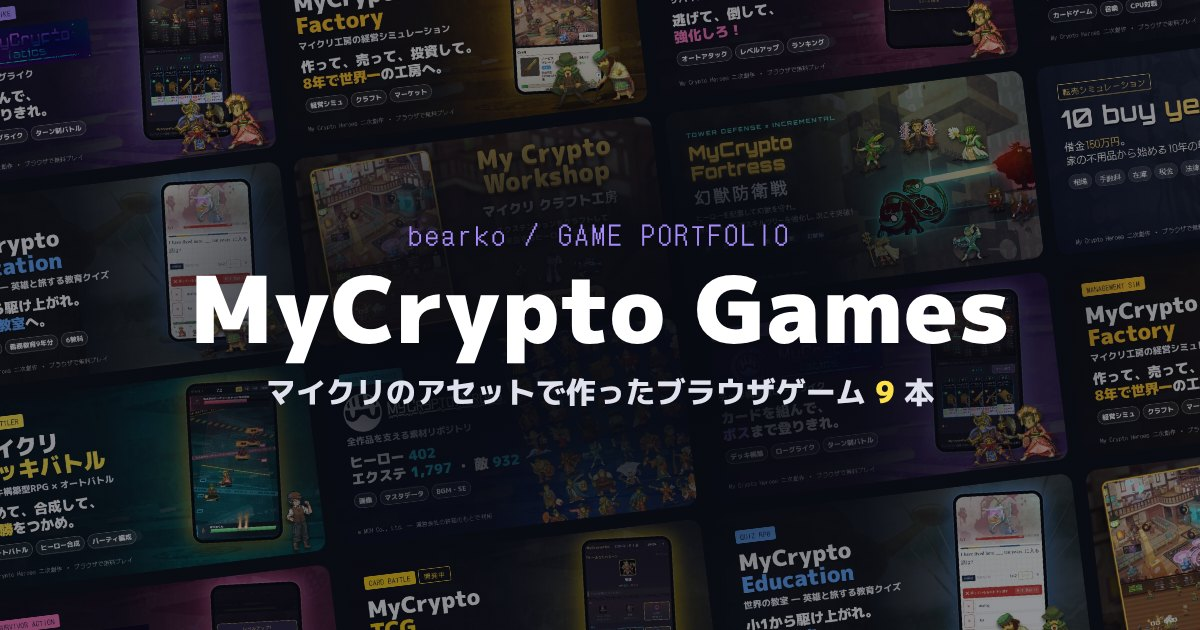
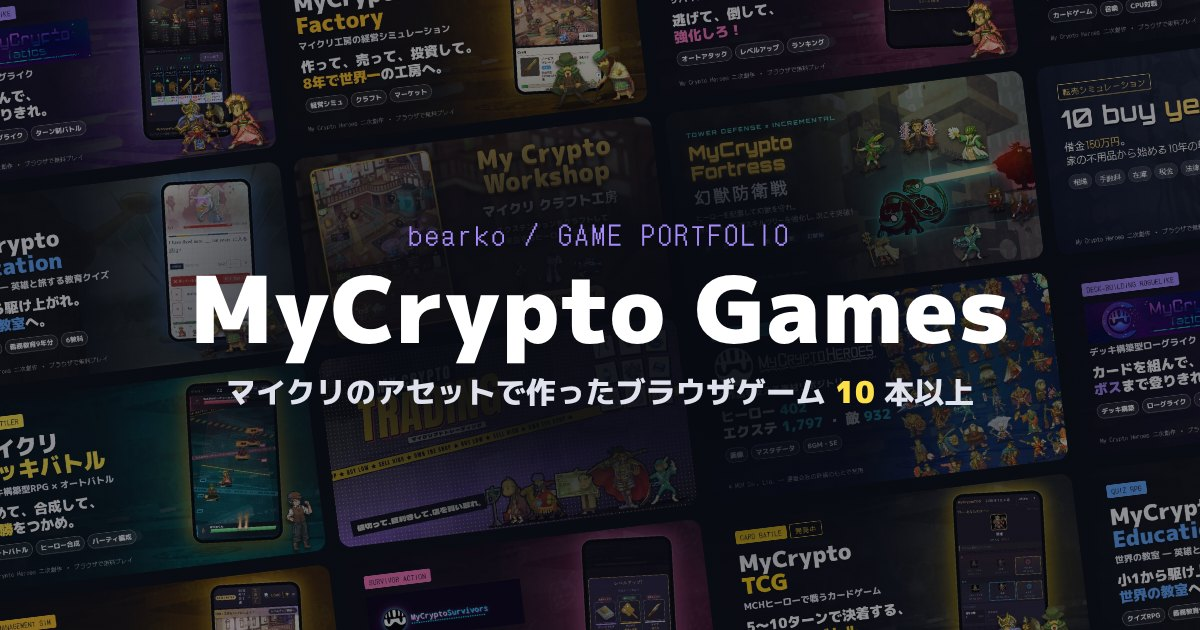
fix(portal): OGP 画像を作り直し、作品数を「10 本以上」に (#91)
- og-image.jpg: Trading のサムネイルを含めて作り直した（node tools/make-thumbs.mjs og）
- tools/thumbs/og.html・index.html の説明文：作品が増えても書き直さなくてよいよう「10 本以上」に

Claude-Session: https://claude.ai/code/session_019yDScE4q2ECipUMzp3dNim

diff --git a/index.html b/index.html
@@ -4,11 +4,11 @@
 <meta charset="utf-8">
 <meta name="viewport" content="width=device-width, initial-scale=1, viewport-fit=cover">
 <title>MyCrypto Games — bearko のゲームポートフォリオ</title>
-<meta name="description" content="My Crypto Heroes のアセットで作ったブラウザゲーム10本。デッキ構築ローグライク・経営シム・サバイバルアクション・教育クイズ・タワーディフェンスなど。">
+<meta name="description" content="My Crypto Heroes のアセットで作ったブラウザゲーム10本以上。デッキ構築ローグライク・経営シム・サバイバルアクション・教育クイズ・タワーディフェンスなど。">
 <meta name="theme-color" content="#0b0d14">
 <meta property="og:type" content="website">
 <meta property="og:title" content="MyCrypto Games — bearko のゲームポートフォリオ">
-<meta property="og:description" content="My Crypto Heroes のアセットで作ったブラウザゲーム10本を、スクリーンショットつきで紹介します。">
+<meta property="og:description" content="My Crypto Heroes のアセットで作ったブラウザゲーム10本以上を、スクリーンショットつきで紹介します。">
 <meta property="og:url" content="https://bearko.games/">
 <meta property="og:image" content="https://bearko.games/og-image.jpg">
 <meta property="og:image:width" content="1200">

diff --git a/tools/thumbs/og.html b/tools/thumbs/og.html
@@ -25,7 +25,7 @@
 <div class="t">
   <div class="k">bearko / GAME PORTFOLIO</div>
   <h1>MyCrypto Games</h1>
-  <p>マイクリのアセットで作ったブラウザゲーム <b>10</b> 本</p>
+  <p>マイクリのアセットで作ったブラウザゲーム <b>10</b> 本以上</p>
 </div>
 <script>
   const ids = ['tactics','factory','survivor','tcg','education','workshop','fortress','tenbuy','deckbattle','trading','heroes'];
